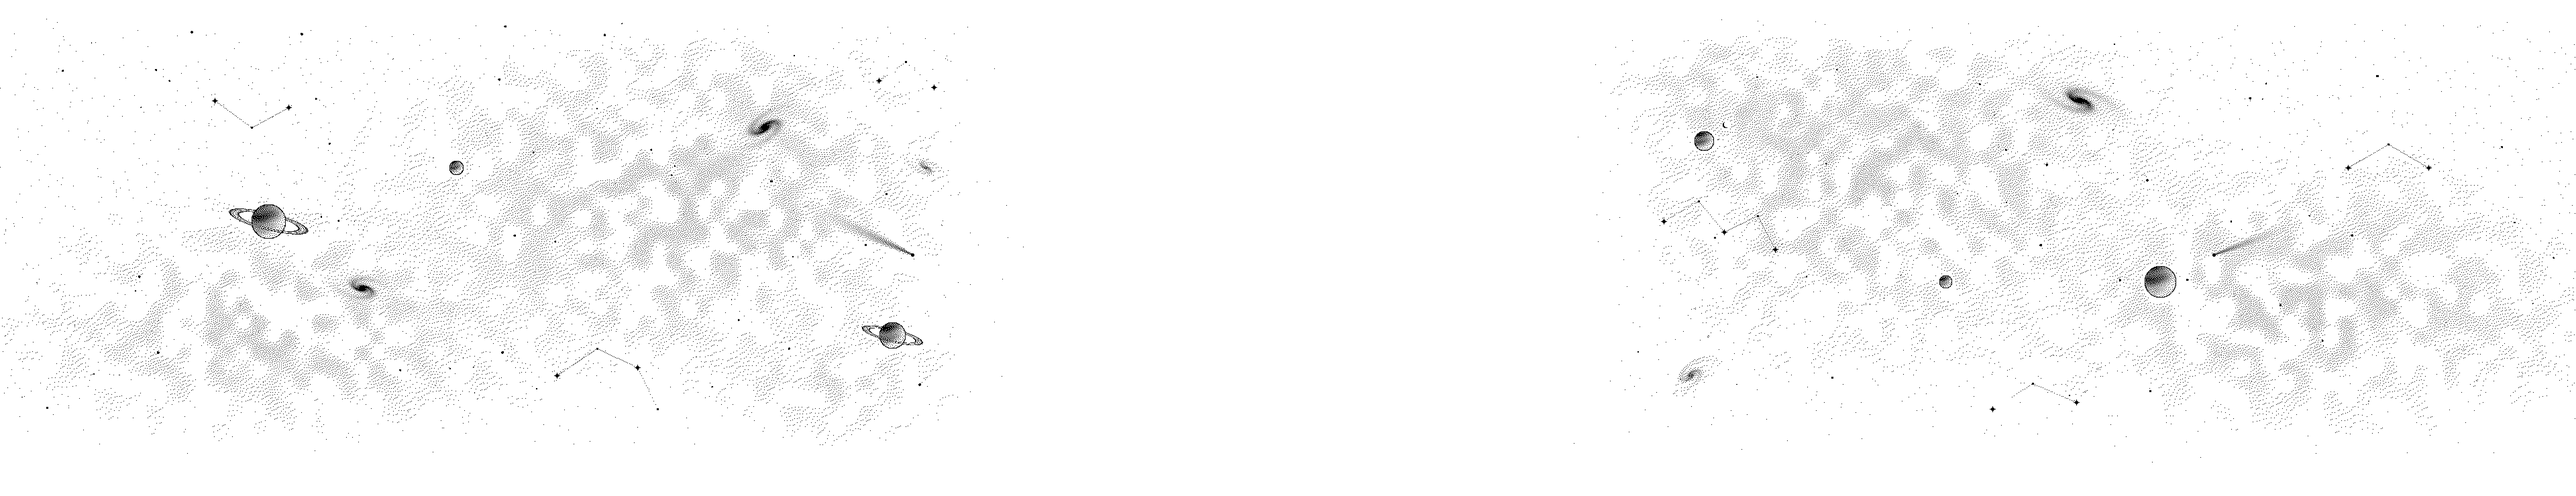
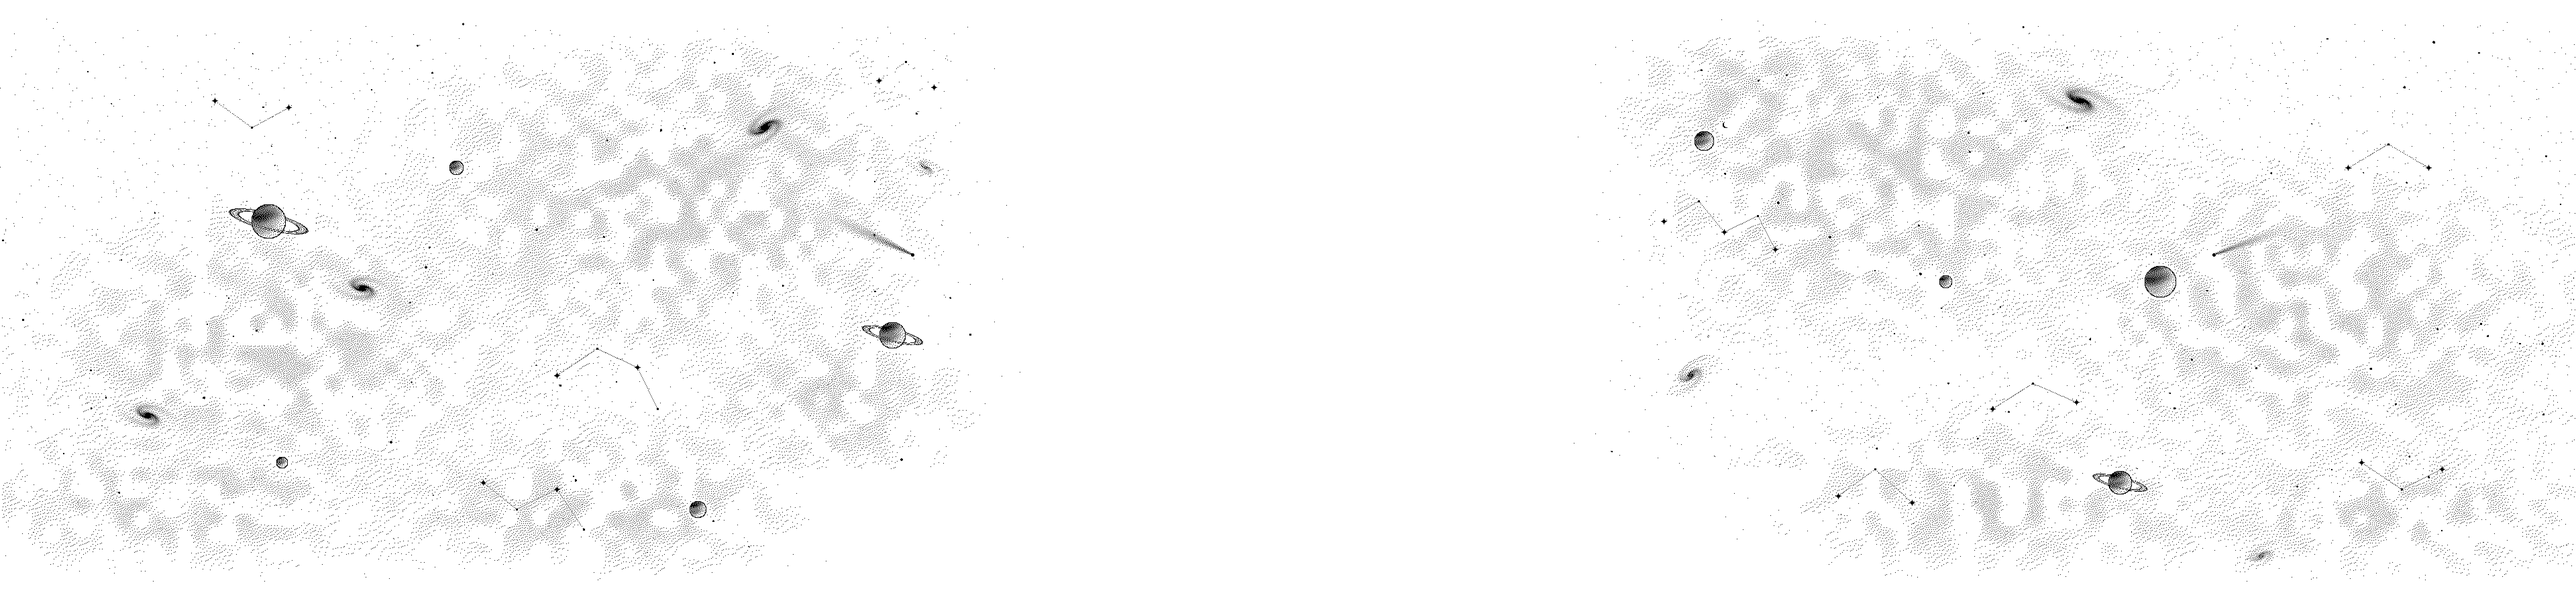
Hero: side art runs down into the scene on wide screens, no empty band at the sides
Claude-Session: https://claude.ai/code/session_01A1VqEuwrkmMr14CqJk9vdN

diff --git a/src/components/Hero/Hero.module.css b/src/components/Hero/Hero.module.css
@@ -13,12 +13,12 @@
   left: 0;
   right: 0;
   opacity: 0;
-  height: 740px;
+  height: 900px;
   position: absolute;
   pointer-events: none;
   background-color: var(--dither);
-  -webkit-mask: url("/dither/hero-sides.png") center top / auto 740px no-repeat;
-  mask: url("/dither/hero-sides.png") center top / auto 740px no-repeat;
+  -webkit-mask: url("/dither/hero-sides.png") center top / auto 900px no-repeat;
+  mask: url("/dither/hero-sides.png") center top / auto 900px no-repeat;
   transition: opacity 0.35s ease-in;
 }
 
@@ -27,9 +27,12 @@
   transition: opacity 0.8s ease 0.5s;
 }
 
+/* The light art runs all the way down behind the hills, cut off at the end of the hero */
 .sidesDay {
-  -webkit-mask-image: url("/dither/hero-sides-day.png");
-  mask-image: url("/dither/hero-sides-day.png");
+  bottom: 0;
+  height: auto;
+  -webkit-mask: url("/dither/hero-sides-day.png") center top / auto 1240px no-repeat;
+  mask: url("/dither/hero-sides-day.png") center top / auto 1240px no-repeat;
 }
 
 :global(html[data-theme="light"]) .sidesDay {
